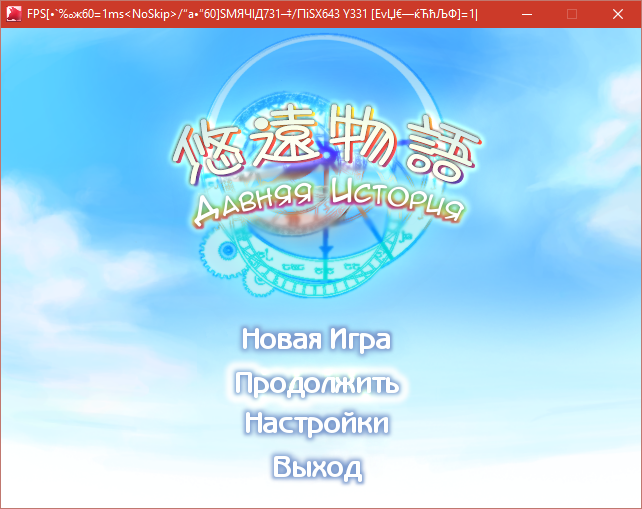
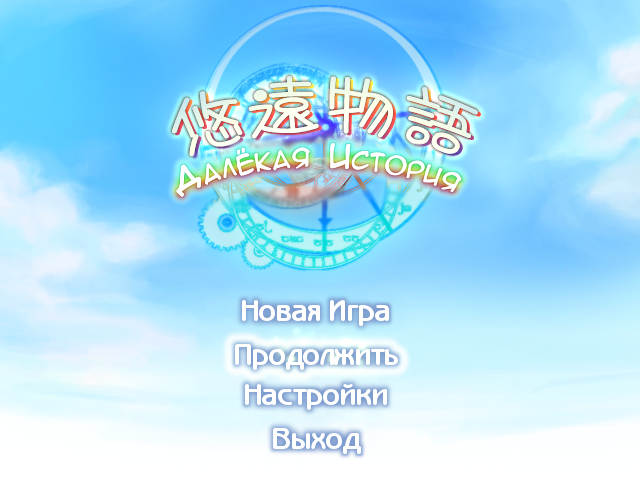
Сменил название

diff --git a/translate/games/FarawayStoryRPG/index.html b/translate/games/FarawayStoryRPG/index.html
@@ -1,8 +1,8 @@
 ---
 layout: default
-title: Давняя История || Rinon Ninqueon
+title: Далёкая История || Rinon Ninqueon
 ---
-<h1>Давняя История || Faraway Story RPG</h1>
+<h1>Далёкая История || Faraway Story RPG</h1>
 
 <h2>Перевод не закончен!</h2>
 <h2>Доступны только Главы с 1 по 3!</h2>
@@ -12,7 +12,7 @@ title: Давняя История || Rinon Ninqueon
 К её удивлению, горожане мало знают о континенте, только множество слухов о том, что же находится там.<br>
 И <b>Пиа</b>, открывшая свой маленький магазин на холме, оказывается вовлечена в удивительную историю, охватывая множество мест и времён...</p>
 
-<p><b>Давняя История</b> - это RPG, сделанная <a href="http://fa2.s372.xrea.com/es/es.htm">Fantasy Factory</a> в <b>Wolf RPG Editor</b>.<br>
+<p><b>Далёкая История</b> - это RPG, сделанная <a href="http://fa2.s372.xrea.com/es/es.htm">Fantasy Factory</a> в <b>Wolf RPG Editor</b>.<br>
 Между сюжетом, вы будете сражаться в случайных подземельях, используя оружие и магию.<br>
 Также, вы можете собирать и создавать предметы, использовать алхимию, улучшать навыки, чтобы получать более крутые предметы, или продать их в магазине.</p>
 

diff --git a/translate/games/index.html b/translate/games/index.html
@@ -6,6 +6,6 @@ title: Переводы игр || Rinon Ninqueon
 <div class="container">
 <h3>Игры:</h3>
 <ul class="posts">
-    <a href="/translate/games/FarawayStoryRPG">Faraway Story RPG || Давняя История</a>
+    <a href="/translate/games/FarawayStoryRPG">Faraway Story RPG || Далёкая История</a>
 </ul>
 </div>
